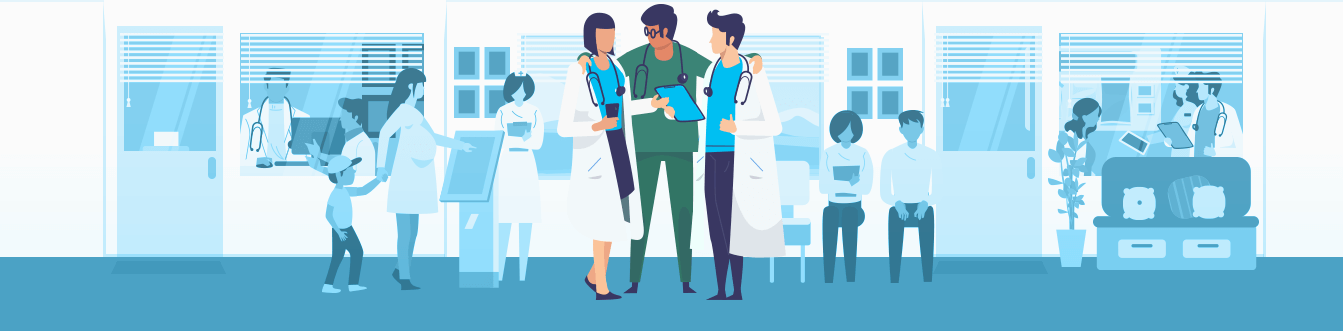
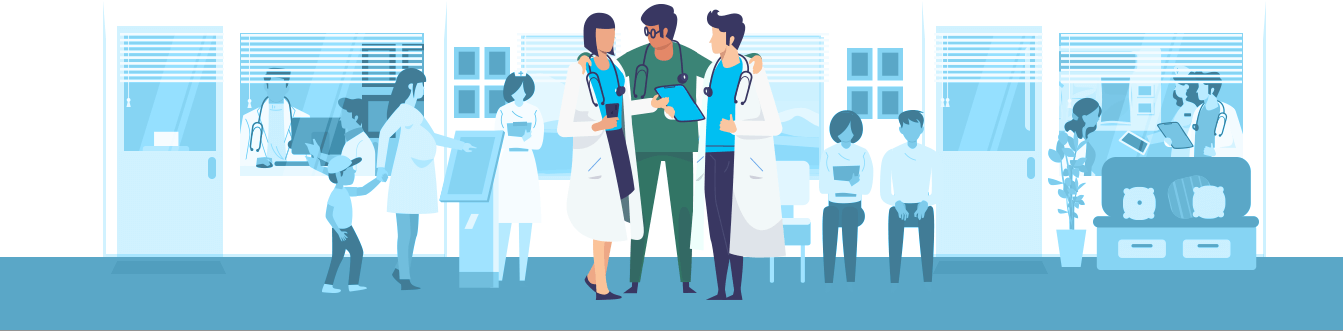
refactor: update clinics usp pages

Changed region(s): [[0.0, 0.997, 1.0, 1.0], [0.3358, 0.0, 1.0, 0.0302], [0.0, 0.0, 0.0916, 0.0302]]

diff --git a/src/components/commons/usp.vue b/src/components/commons/usp.vue
@@ -26,9 +26,7 @@
           @load="loadedImage"
         ).justify-center
         div(v-show="!isImageLoaded").white.empty-image-container
-    div.offset-container(
-        v-show="isImageLoaded && !$isMobile"
-        :class="{'usp-offset-alt-blue-color' : altBlueRoutes.includes(this.$route.name)}")
+    div.offset-container(v-show="isImageLoaded && !$isMobile")
 </template>
 
 <script>
@@ -75,7 +73,6 @@ export default {
     return {
       isImageLoaded: false,
       // - Routes that use the alternative blue color for USP
-      altBlueRoutes: ['home', 'features', 'our-story', 'csr']
     };
   },
   methods: {
@@ -135,15 +132,12 @@ export default {
 }
 
 .outer-image-container {
-  margin-bottom: -76.65px;
+  margin-bottom: -63.5px;
   padding-top: 7vh;
 }
 .offset-container {
   height: 15vh;
-  background-color: #4BA2C5;
-}
-.usp-offset-alt-blue-color {
-  background-color: #5AA7C7 !important;
+  background-color: #5AA7C7
 }
 .usp-offset-grey {
   background-color: #707070 !important;
@@ -154,9 +148,9 @@ export default {
 .uspMobileBtn {
   height: 75px;
 }
-.web-padding {
-  padding-bottom: 13.80px;
-}
+/* .web-padding {
+  padding-bottom: 14.80px;
+} */
 @media screen and (min-height: 1080px) {
   .whole-page {
     height: 55vh !important;
